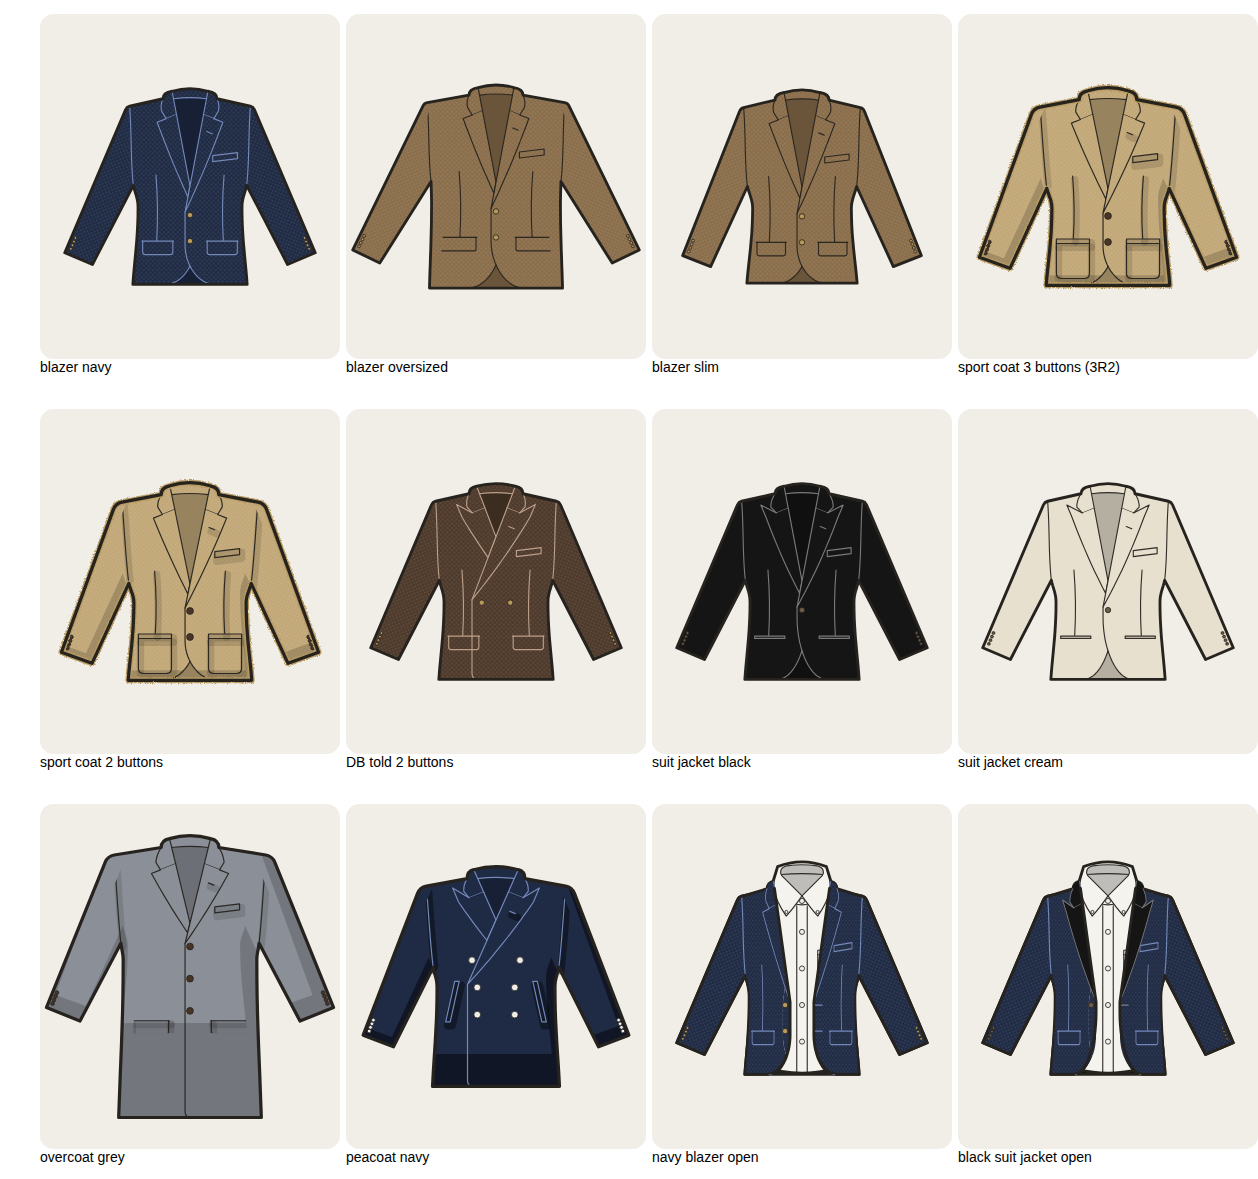
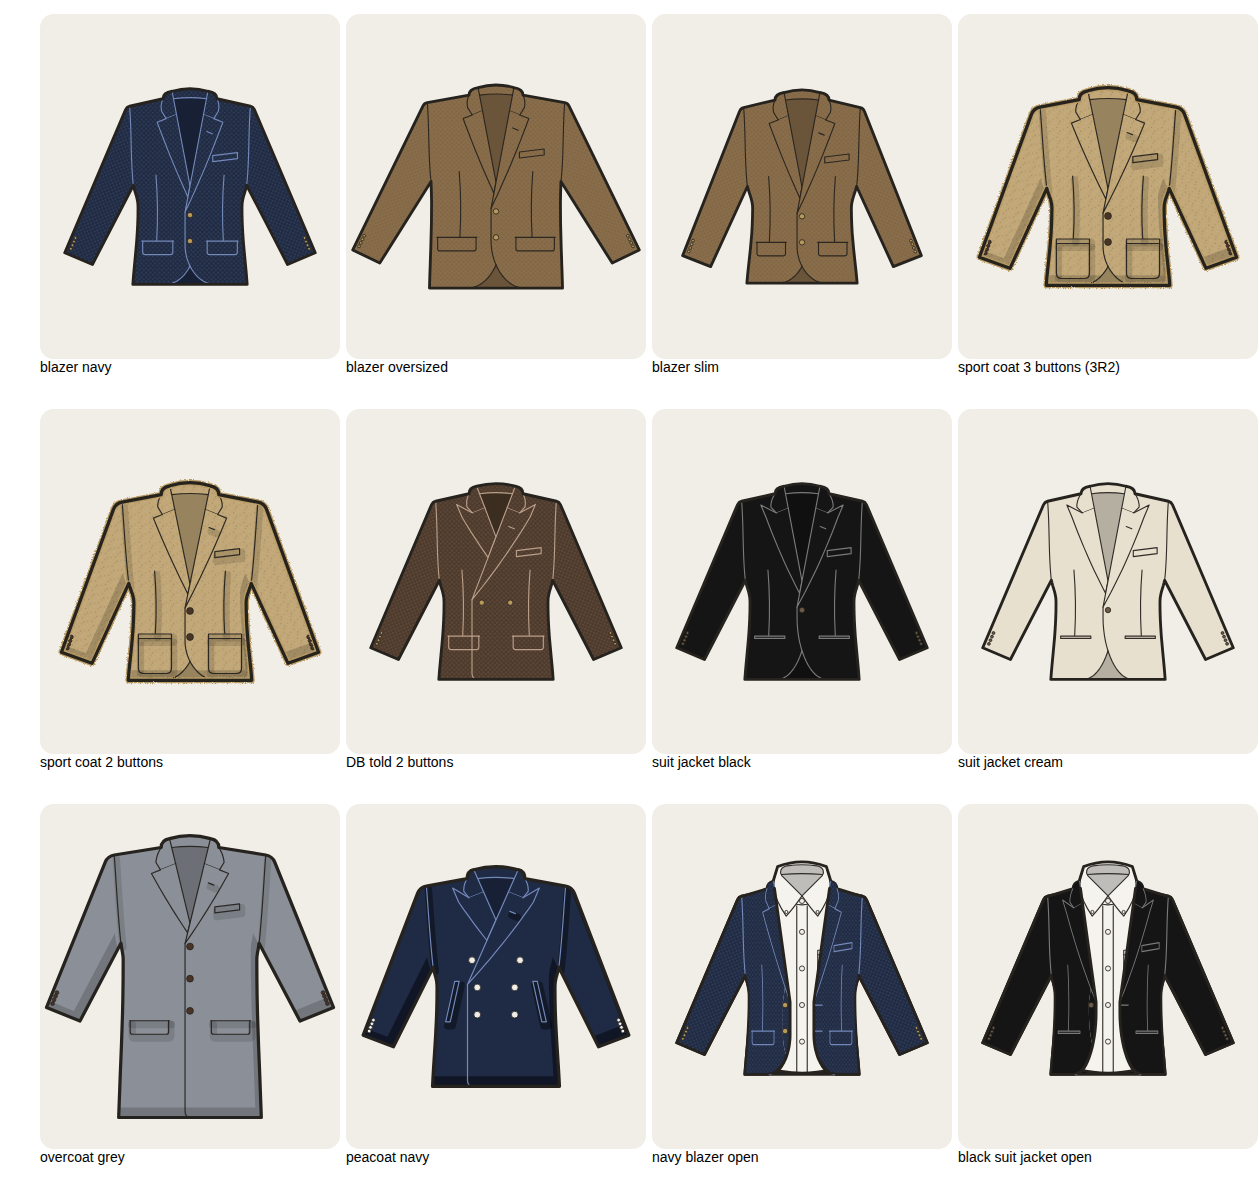
Drawing version 2, demo closet redrawn, migration test fixed; docs and before/after sheets

diff --git a/backend/tests/test_illustrations.py b/backend/tests/test_illustrations.py
@@ -215,7 +215,7 @@ def test_the_demo_closets_drawings_are_the_ones_made_in_advance(client, cfg):
     assert red["illustration_svg"] != polo["illustration_svg"] and "#b33a3a" in red["illustration_svg"]
 
 
-def test_the_migration_keeps_the_drawings_made_before_it(cfg):
+def test_the_migration_keeps_the_drawings_made_before_it(cfg, monkeypatch):
     path = cfg.db_path("main")
     path.parent.mkdir(parents=True, exist_ok=True)
     old = sqlite3.connect(path)
@@ -233,8 +233,13 @@ def test_the_migration_keeps_the_drawings_made_before_it(cfg):
     conn = db.connect(path)
     try:
         rows = {r["id"]: r for r in conn.execute("SELECT * FROM items")}
+        # the drawings made before the migration were made by drawing code version 1, the version they are marked with
         assert rows["a"]["illustration_version"] == 1 and rows["b"]["illustration_version"] is None
-        assert illustrations.current(conn, rows["a"])["illustration_svg"] == "<svg>made in advance</svg>"   # kept
+        with monkeypatch.context() as m:   # kept while the drawing code is still the one they were made with
+            m.setattr(drawing, "DRAWING_VERSION", 1)
+            assert illustrations.current(conn, rows["a"])["illustration_svg"] == "<svg>made in advance</svg>"
+        if drawing.DRAWING_VERSION > 1:   # drawn again, like any other old drawing, once the drawing code changed
+            assert illustrations.current(conn, rows["a"])["illustration_svg"] != "<svg>made in advance</svg>"
         assert illustrations.current(conn, rows["b"])["illustration_svg"] == draw.svg_from_fields("tee", None, uid="b")
     finally:
         conn.close()

diff --git a/backend/closet/tagger/taxonomy.py b/backend/closet/tagger/taxonomy.py
@@ -451,7 +451,7 @@ COVERAGE: dict[str, dict[str, tuple[str, str]]] = {
         ("snap", (D, "press studs drawn as a metal ring round a cap")),
         ("zip_quarter", (D, "short zip")), ("zip_half", (D, "zip to mid-chest")), ("zip_full", (D, "")),
         ("double_breasted", (D, "front edge well past centre, two columns of buttons; on a jacket 6x2, "
-                                "the top row set wider")),
+                                "the top row set wider; told 1 or 2 buttons, those are the ones that fasten (6x1, 6x2)")),
         ("none", (D, "")),
     ),
     "cuff": _c(

diff --git a/backend/closet/drawing/__init__.py b/backend/closet/drawing/__init__.py
@@ -13,4 +13,4 @@ draws from tags without it.
 # Raised whenever a template, the renderer or the fills change what a drawing looks like. The app keeps the
 # version each item was drawn with and draws an item again, the first time it is asked for, when it is older.
 # Regenerate the demo closet (`tools/make_demo.py`) in the same change: it records the version it was drawn with.
-DRAWING_VERSION = 1
+DRAWING_VERSION = 2

diff --git a/docs/DECISIONS.md b/docs/DECISIONS.md
@@ -452,6 +452,7 @@ Facts checked in Anthropic's documentation on 2026-11-12:
 | Bodies are drawn at 84% of their flat width | Drawn at the full flat measurement (a 56 cm chest), the owner found every garment too wide: laid flat, the cloth that wraps round the body lies out to the sides. Lengths stay true. The share is one constant (`BODY_W`); the owner was shown 100%, 92%, 88% and 84% side by side and confirmed 84%. The owner's chest is about 39 inches, which is the size the measurements already assume (a medium: a shirt 56 cm across the chest laid flat). |
 | Anchor points are points on the wearer, not on the garment | Neck base and the shoulders of a 46 cm frame, the same for every top. How far the cloth extends beyond them is the fit. |
 | Tailored jackets have their own construction | A blazer drawn as a shirt body with lapels was rejected as narrow and wrong. Jackets are built from the measurements of a real two-button jacket: structured shoulder, suppressed waist, lapel gorge and roll to the top button, button stance, cutaway quarters, welt and flap or patch pockets. Built by a Copilot agent (#12) in its own function, so no other drawing changed; a test holds a fingerprint of every other drawing and fails if one changes by accident (when a drawing is changed on purpose, its fingerprint is recorded again in the same change). Jackets use the same 84% share of their flat width as every other top, so a jacket and the shirt under it stay in proportion. |
+| Jacket details read the way a tailor counts them | Fixes to the faults left in the tailored jacket (#109). A double-breasted jacket tagged with one or two buttons is read as the buttons that fasten, so it is drawn as the usual 6x1 or 6x2 (six buttons in three rows; on a 6x1 the lapels roll to the bottom row); tagged with more, that is every button on it. A single-breasted jacket tagged with three buttons is a three-roll-two: two buttons below the lapel and the top buttonhole showing on the lapel's roll, its button hidden. A jacket's buttons are drawn at least 3:1 in contrast against the cloth (the level the web accessibility guidelines set for large shapes), lightened or darkened as little as needed; on black or navy, where a darker shade would not show, the jacket's inside is drawn lighter than the cloth instead. Sleeves hang at most 19 degrees from the side with a rounded underarm, so the two outlines do not run into a dark wedge; lapels broaden with a fuller fit (0.4 cm for each cm of chest it adds). |
 | Garments that open all the way down can be drawn open | The owner expects jackets, cardigans and overshirts to be shown both buttoned and open over a shirt. Composing an outfit is the outfit view (stop C), but the drawing has to support it, so the open state and a proof that layers line up on the shared anchors are built in track 1. In the closet grid an item is shown closed by default. |
 | A garment worn open is drawn as the layers it is made of | The first version cut the closed drawing down the middle and slid the halves apart. The owner rejected it: the under front was missing the strip hidden beneath the overlap, only one front had fastenings, a wide coat could not open, and a shirt underneath was cut off at the hem. Now the garment is a back, two fronts and what is sewn to them. Both fronts are the same size: each reaches past the centre by the overlap, and the part of the under front that the closed drawing hides is the mirror image of the top front's. The front that lies on top (the wearer's left, as on men's clothes) carries the buttonholes, vertical on a shirt or cardigan and horizontal on a jacket or coat; the one underneath carries the buttons. Each front swings open about its side seam like a door, so it is drawn narrower, as a turned panel looks, while sleeves and sides stay put: the garment keeps its width and its shoulder points, and a double-breasted coat opens as far as a shirt. The inside of the back shows between the fronts and inside the neck. Worn over another garment the order is: the outer garment's inside back, the whole garment underneath, the outer fronts and sleeves; a long tee hangs below a short jacket and a shirt collar stands above a jacket's. Each garment only states where its top front's edge runs; the renderer does the rest, so every garment that opens gets this. Open or closed is a choice made when wearing, not a tag on the item. |
 | Reference drawings may be downloaded from Wikimedia Commons, Openclipart and SVG Repo | Added to the `daily-clother` environment at the owner's prompting. They are looked at and measured, never copied into the repo. Commons rate-limits hard: one request, then wait. |

diff --git a/docs/BACKLOG.md b/docs/BACKLOG.md
@@ -84,7 +84,7 @@ Done:
 In progress (owner's corrections to the first taxonomy sheets):
 - [x] Fits recalibrated from real garment measurements: everything was drawn slim.
 - [x] Tailored jackets (blazer, sport coat, suit jacket, coats with lapels) rebuilt as their own construction (by a Copilot agent, #12; drawn at the same 84% body width as every top). Waiting for the owner's verdict in the gallery (round 5).
-- [ ] Jacket faults left from that work: sleeves splay wide and the strokes merge into a dark wedge under the arm; a double-breasted jacket that is told "2 buttons" shows one row of two instead of the usual six; lapels do not grow with an oversized fit; cuff buttons are tiny; three-roll-two draws as two-button; low-contrast buttons on some cloths; the jacket's inside barely shows on black or navy.
+- [x] Jacket faults left from that work (#109): sleeves splay wide and the strokes merge into a dark wedge under the arm; a double-breasted jacket that is told "2 buttons" shows one row of two instead of the usual six; lapels do not grow with an oversized fit; cuff buttons are tiny; three-roll-two draws as two-button; low-contrast buttons on some cloths; the jacket's inside barely shows on black or navy. All seven fixed, each with a test (before/after: `docs/screenshots/jacket-faults-before.png`, `jacket-faults-after.png`); waiting for the owner's verdict in the gallery.
 - [ ] Weight shown much more strongly, as thickness and bulk and not only a heavier line. Done, waiting for the owner's verdict in the gallery (round 4): a heavy cloth is drawn with depth (shade inside its edges, sunken seams, a collar and pockets that stand proud). Still to do: a sign of its own for light cloth (drape wrinkles), and more depth on plain knits, which have few seams to show it.
 - [x] A worn-open state for jackets, cardigans, overshirts and zip hoodies, with a proof that an open layer lines up over a shirt (`state="open"` on a top; `layer(under, over)` in the renderer; gallery section "Worn open"). Rebuilt as layers after the owner rejected the first version: two equal fronts, buttons on one and buttonholes on the other, the garment underneath drawn whole. Waiting for the owner's verdict (round 7).
 
